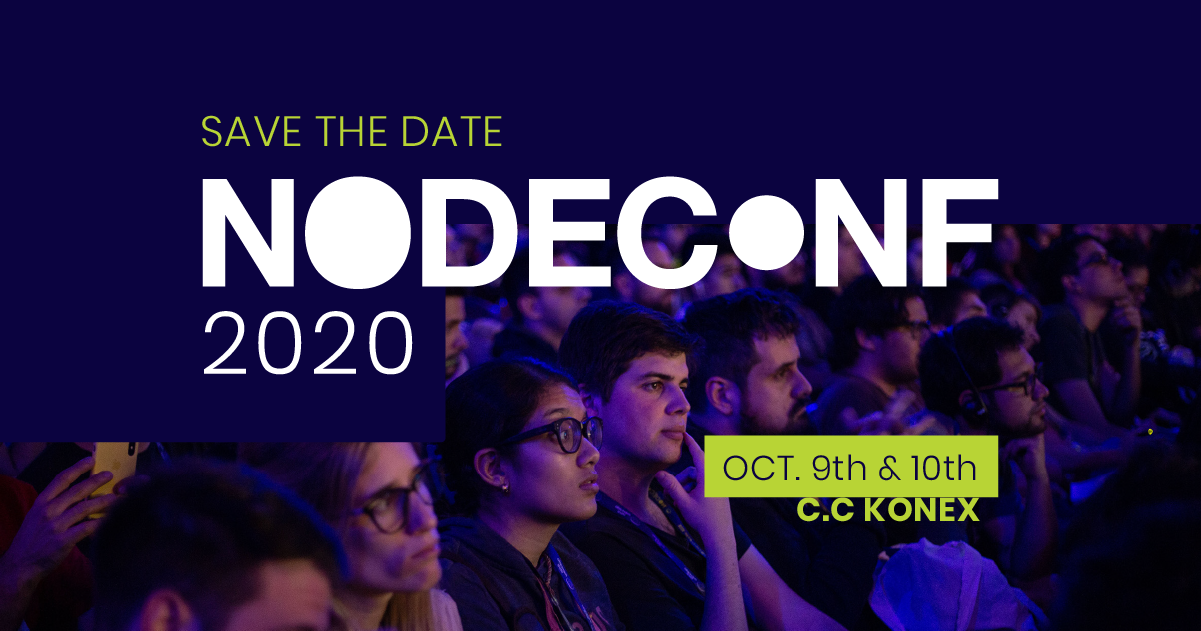
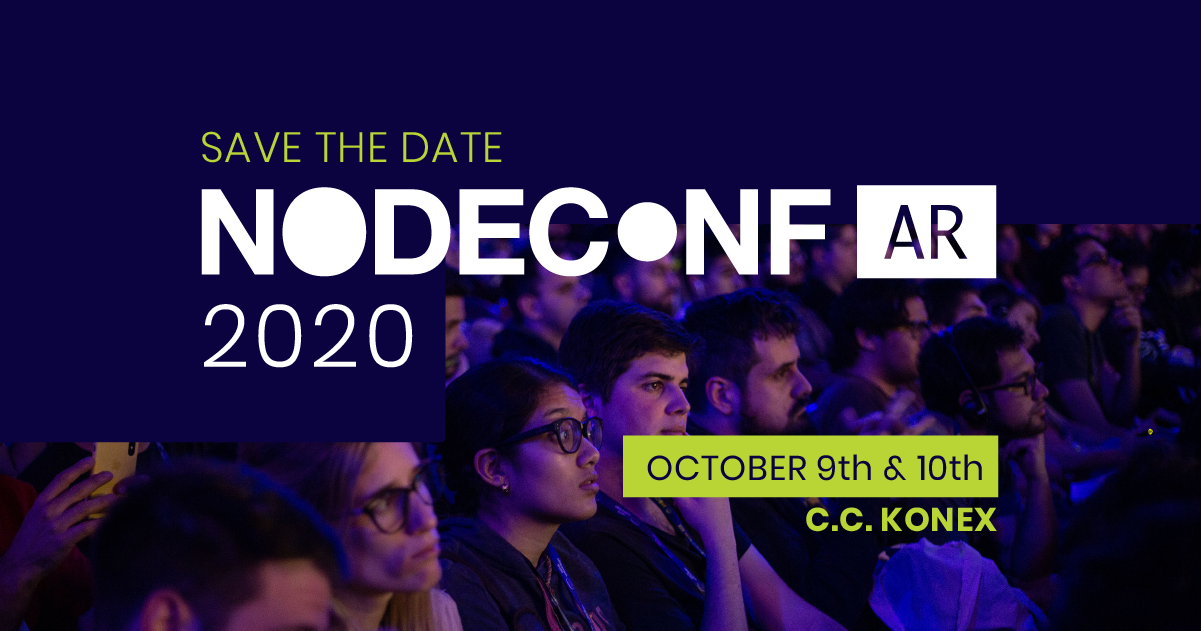
change og-image
Add AR

Changed region(s): [[0.154, 0.1807, 0.8318, 0.6022], [0.4929, 0.6624, 0.8318, 0.8431]]

diff --git a/pages/index.vue b/pages/index.vue
@@ -1,16 +1,16 @@
   <template>
     <div>
-      <div class="flex vh-100 bg-blue-node">
+      <div class="flex vh-hero bg-blue-node">
         <div class="container center relative ph3 self-center z-5">
           <div class="w-100">
-            <div class="mt5-l">
+            <div class="mt5-l mb0-l mb5">
               <h1 class="logo-big mv0"><img src="nodeconf-logo-big.svg" alt="nodeconf"></h1>
               <p class="white year mv0">2020</p>
             </div>
             <div class="tr-l tc">
-              <p class="f2 ttu bg-green-node blue-node ttu dib ph3 pv2 mv0">OCT. 9th & 10th</p>
-              <p class="mv0"><a href="https://goo.gl/maps/EnygTg2SvyD2" target="_black" rel="noopener"
-                  class="f2 fw9 ttu link go-map relative">c.c konex
+              <p class="f2 ttu bg-green-node blue-node ttu dib ph3 pv2 mv0">OCTOBER 9th & 10th</p>
+              <p class="mt2 mb0"><a href="https://goo.gl/maps/EnygTg2SvyD2" target="_black" rel="noopener"
+                  class="f2 fw9 ttu link go-map relative">c.c. konex
                   <span class="tooltip fw7 ttu">see map</span>
                 </a>
               </p>
@@ -24,6 +24,13 @@
   </template>
 
 <style lang="scss" scoped>
+.vh-hero {
+  height: 100vh;
+  @media screen and (max-width: 60em) {
+    height: calc(100vh - 100px);
+  }
+  
+}
 .logo-big {
   width: 70rem;
 
@@ -46,6 +53,9 @@
   height: 500px;
   position: absolute;
   z-index: 3;
+  @media screen and (max-width: 60em) {
+    width: 80%;
+  }
 }
 
 .bg-hero {

diff --git a/components/footer.vue b/components/footer.vue
@@ -2,14 +2,14 @@
  <footer class="pt4 pb2 fixed bottom-0 w-100 z-3">
     <div class="container center ph3">
       <div class="green-node flex flex-wrap justify-between-ns justify-center items-center tl-ns tc">
-        <p class="f6">
+        <p class="f6 mv2">
           <a data-i18n="menuSection.conduct" href="/conduct" class="link dim ph3">code of conduct</a> |
           <a href="https://twitter.com/nodeconfar" class="link dim ph3" target="_black" rel="noopener">twitter</a> |
           <a href="https://www.facebook.com/nodeconfar/" class="link dim ph3" target="_black" rel="noopener">facebook</a> |
           <a href="https://www.youtube.com/c/nodeconfargentina" class="link dim ph3" target="_black" rel="noopener">youtube</a>
         </p>
         <div>
-          <p class="f6">design & code by
+          <p class="f6 mv2">design & code by
             <a href="https://iamcgd.com" target="_blank" rel="noopener" class="link dim">iamcgd</a>
           </p>
         </div>
@@ -18,3 +18,9 @@
   </footer>
 
 </template>
+
+<style lang="scss" scoped>
+footer {
+  height: 100px;
+}
+</style>
